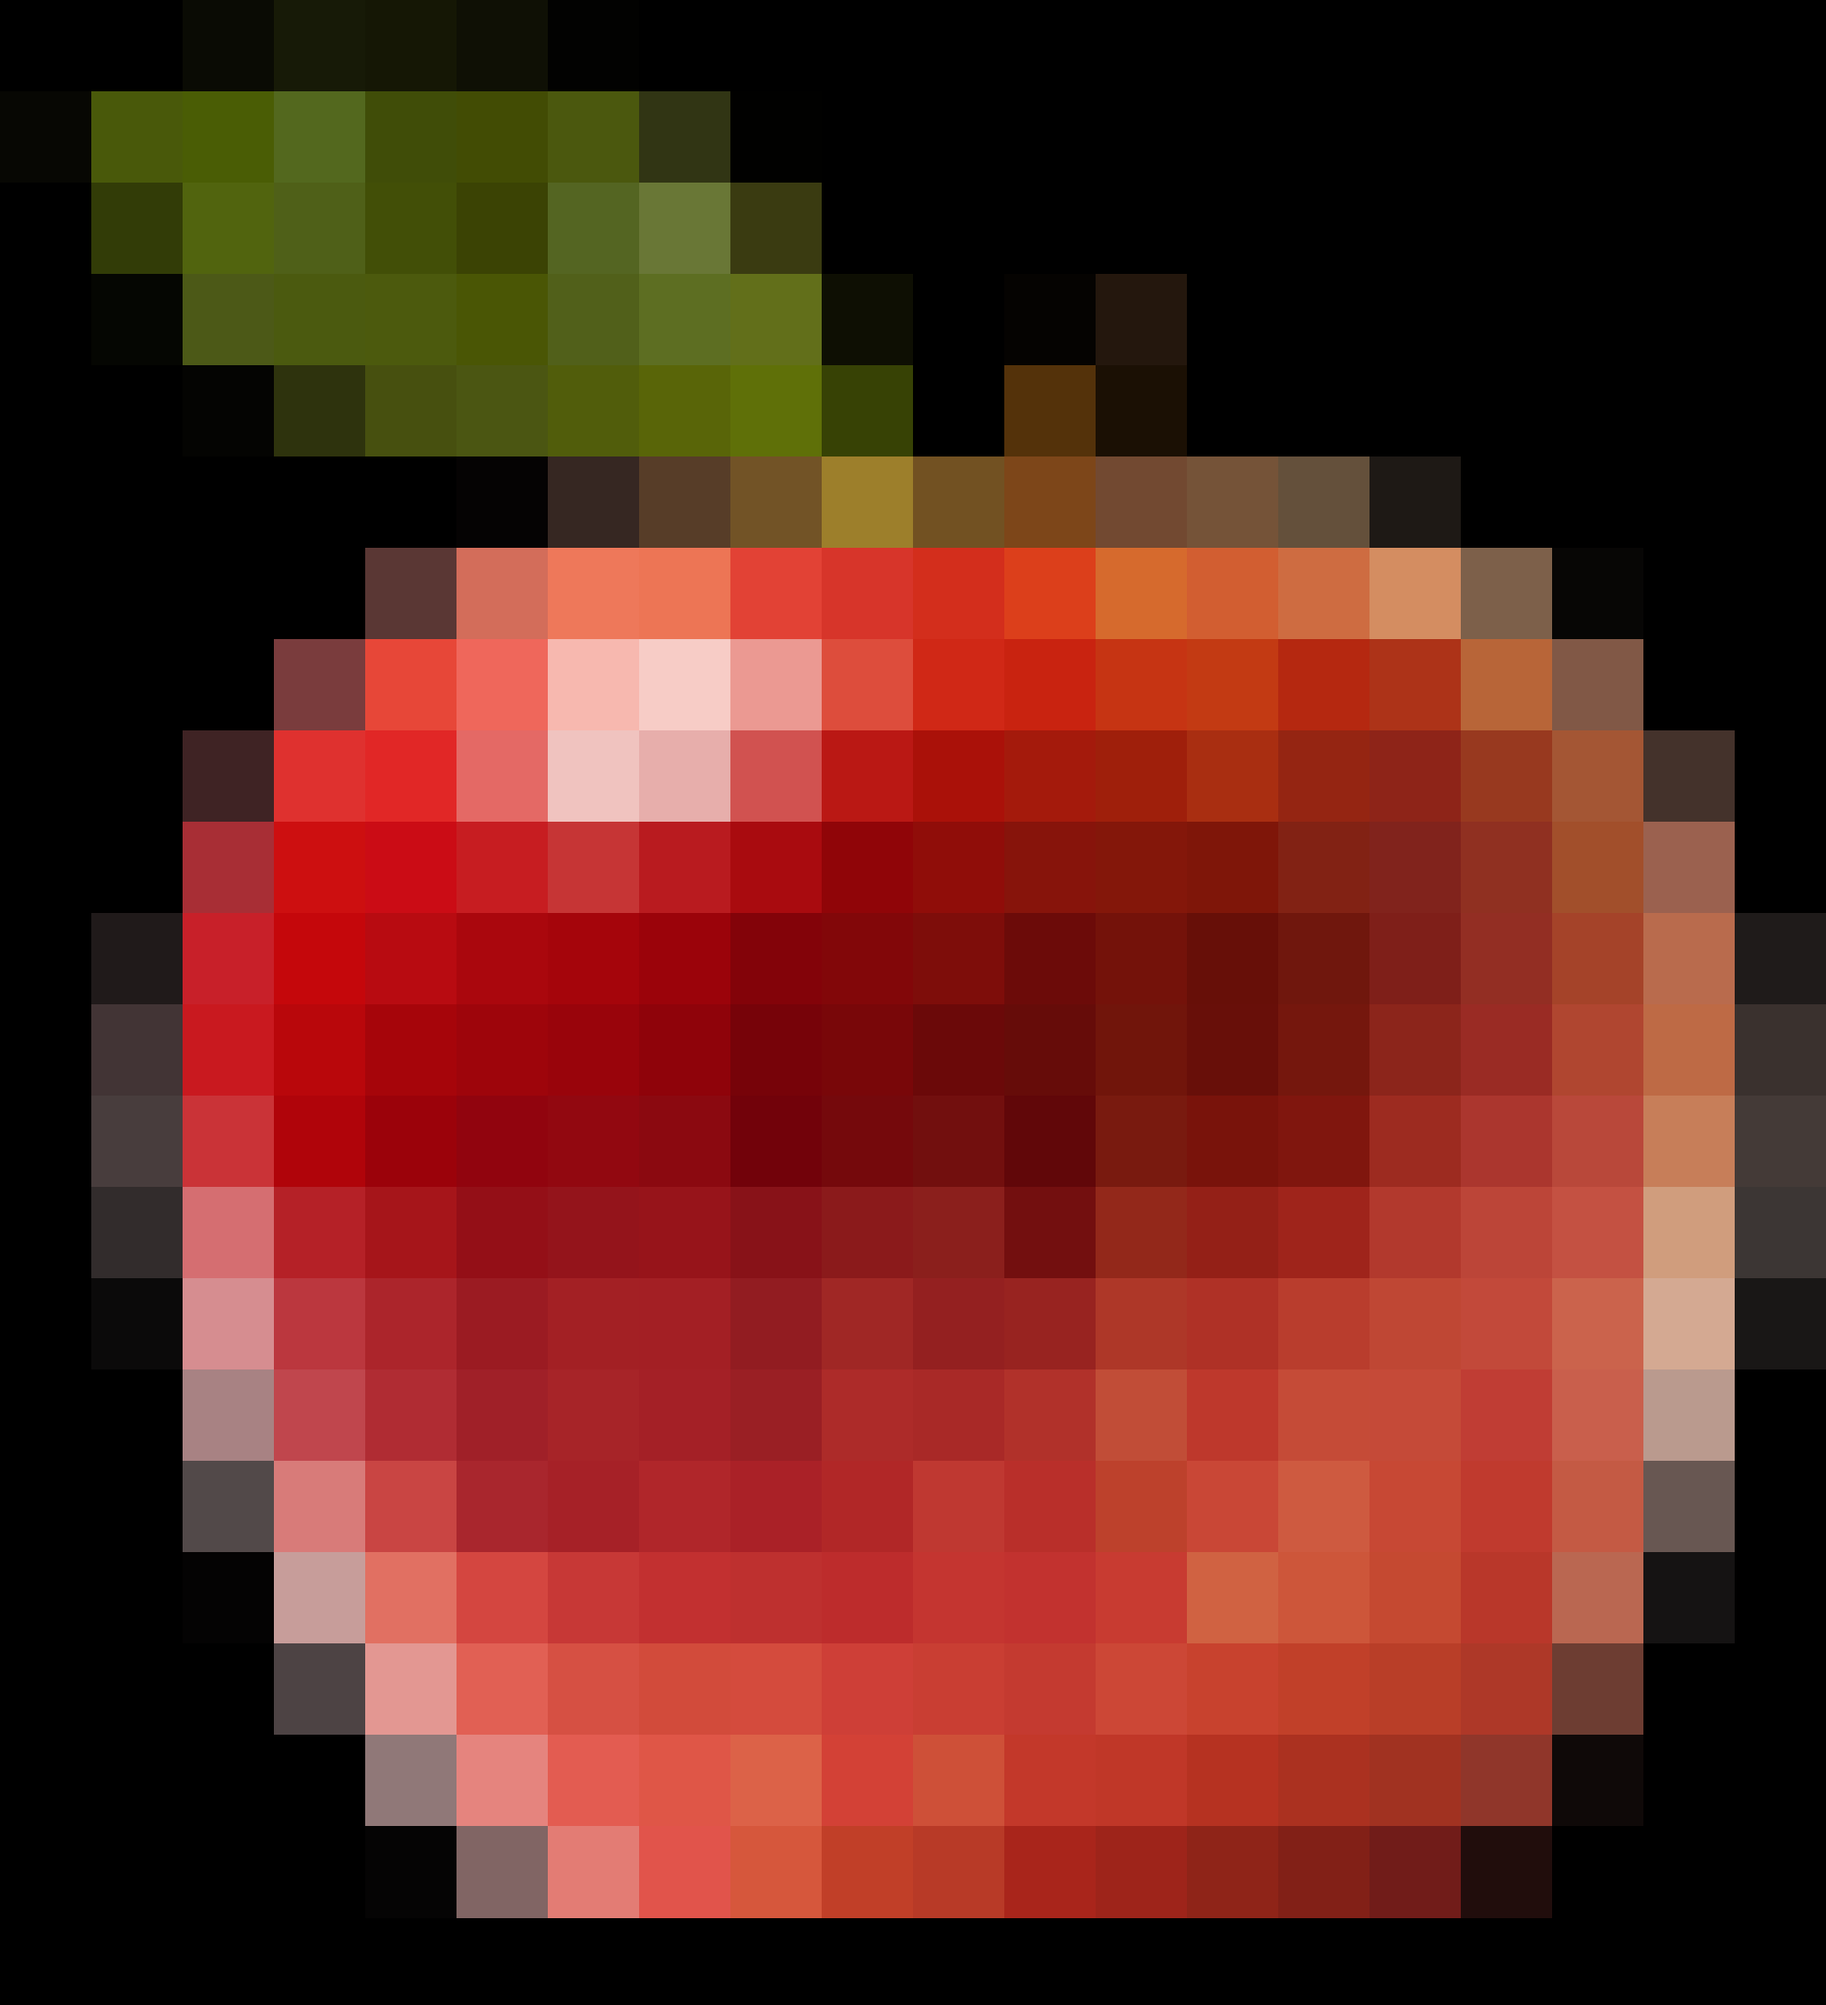
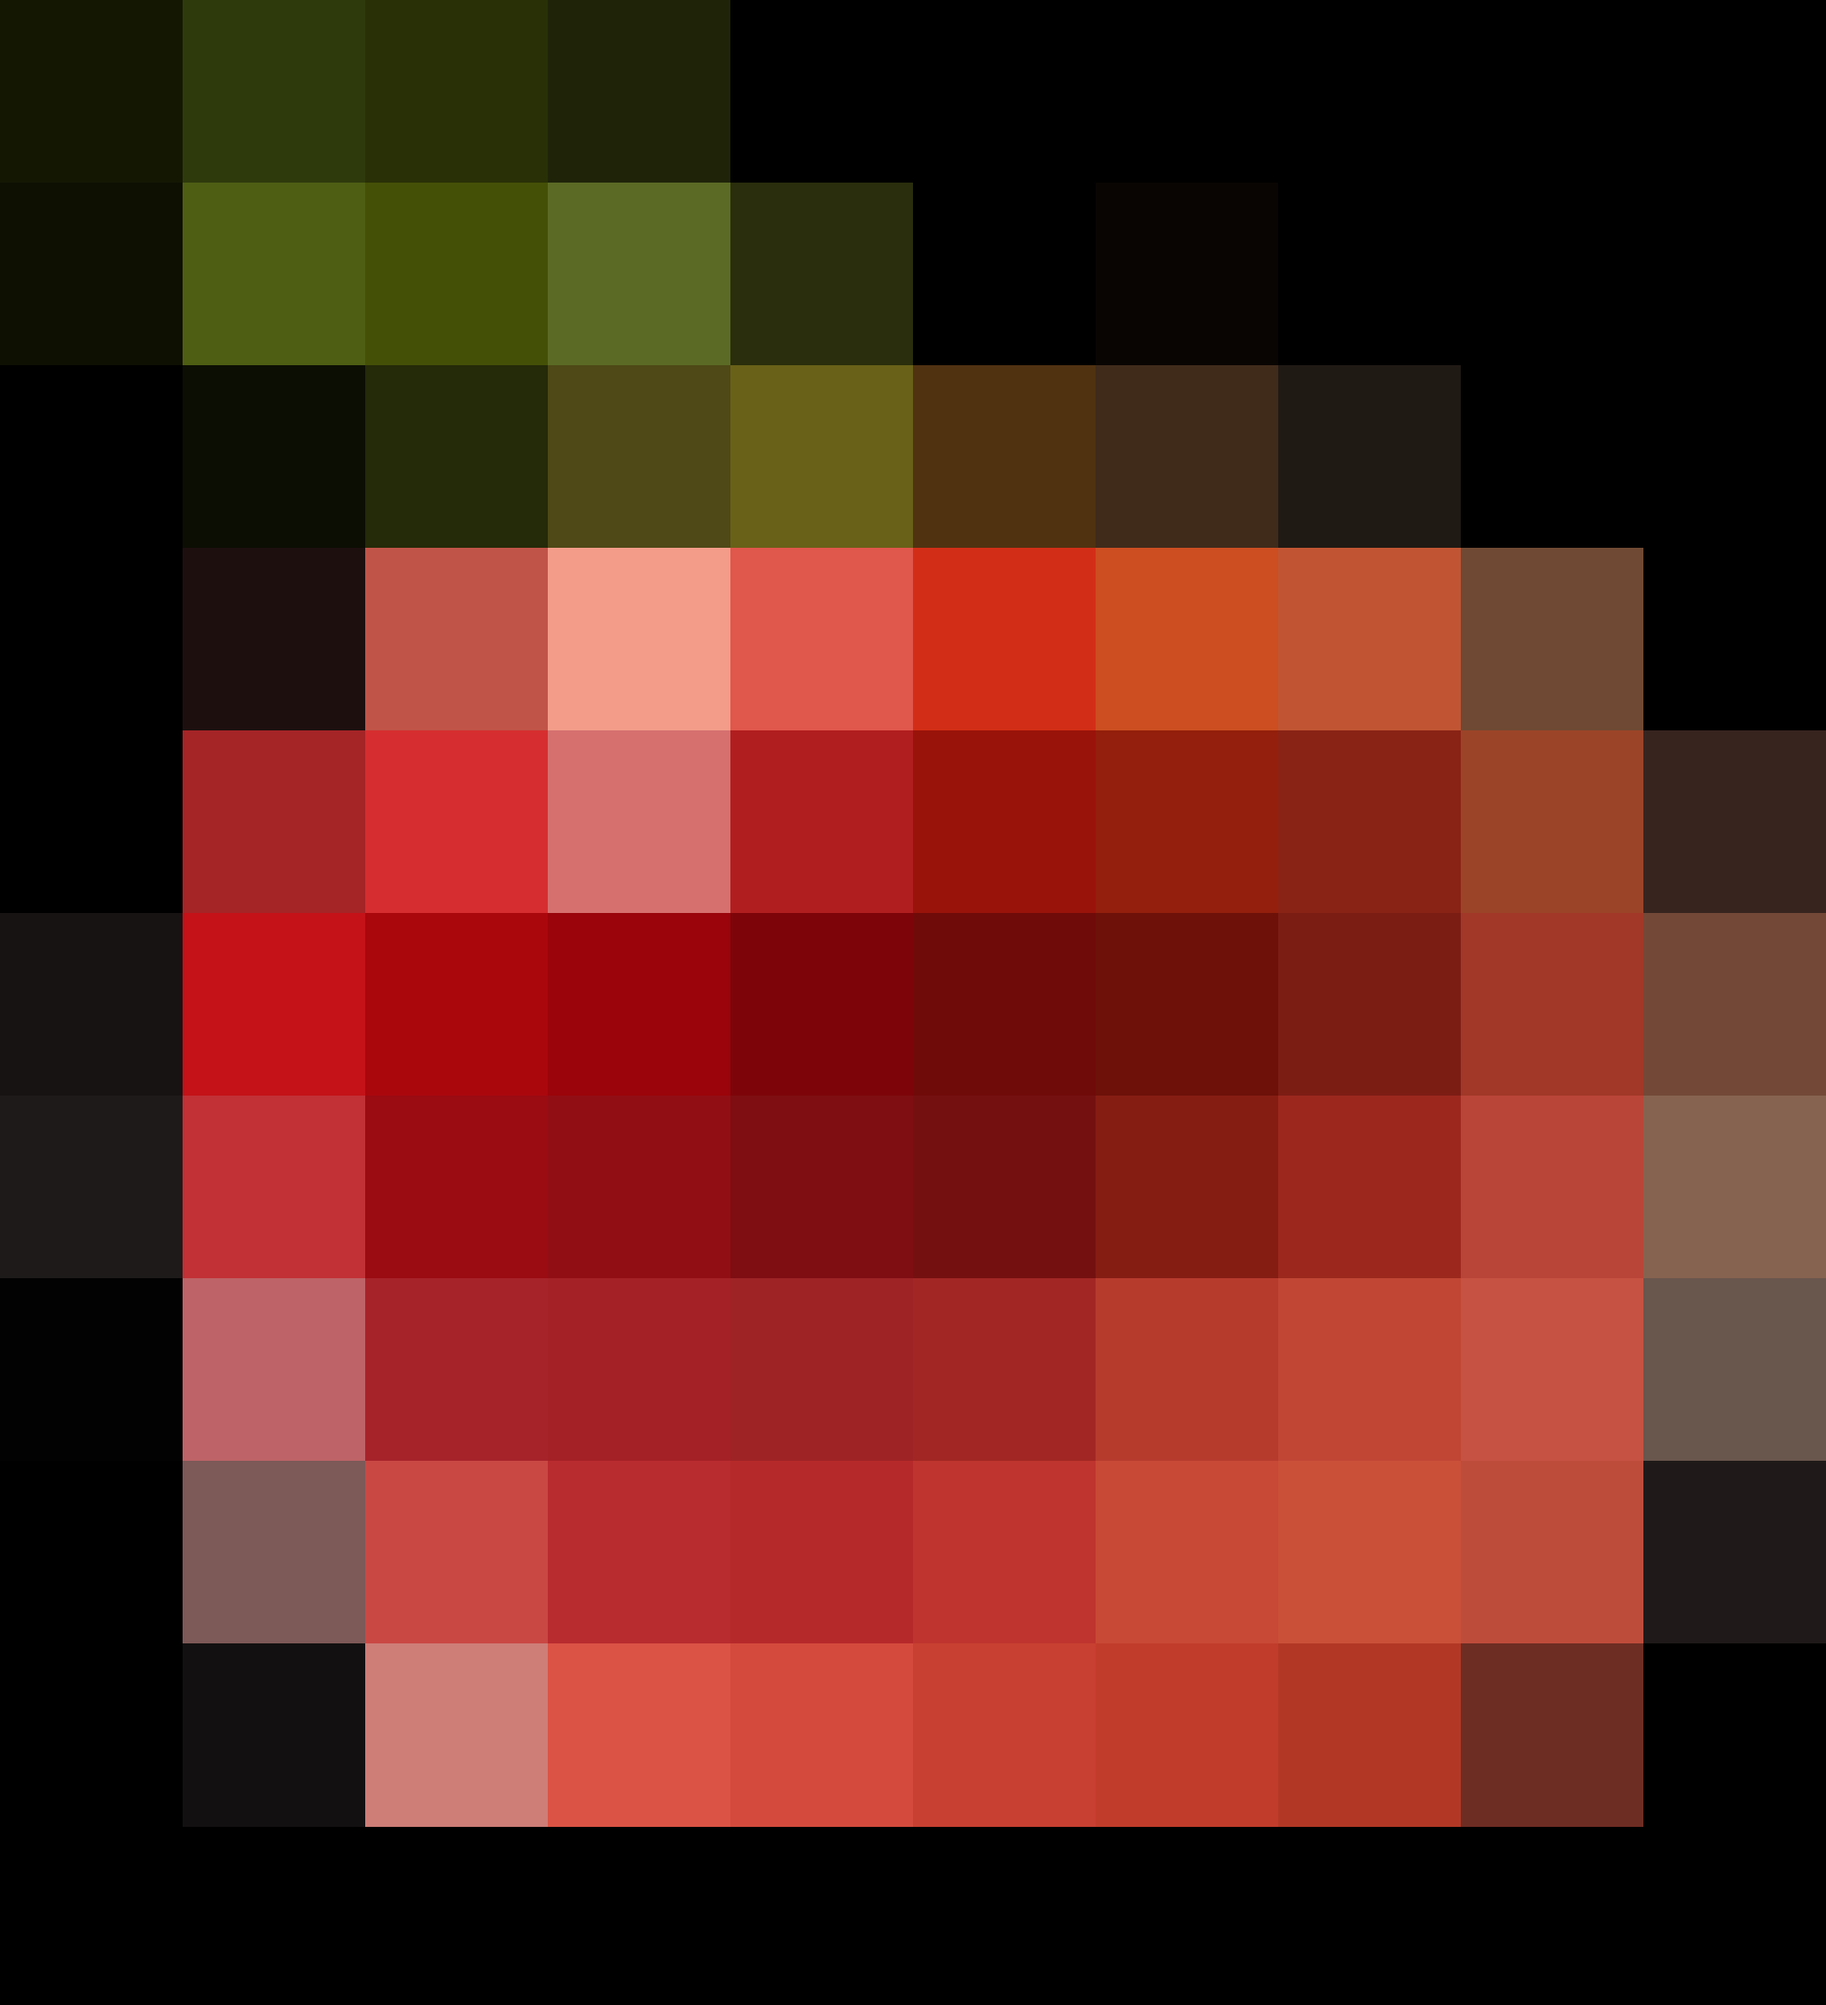
display win game text at the end

diff --git a/src/guessing_game.py b/src/guessing_game.py
@@ -104,7 +104,7 @@ def rescale_image(path):
 
     #center image to screen
     x = (screen_w - img_w)//2
-    y = (screen_h - img_h)//4
+    y = (screen_h - img_h)//2
 
     return img, img_w, img_h, x, y
 
@@ -211,12 +211,24 @@ def main():
 
                             if idx >= len(image_paths): #if there are more images to go through
                                 #call rain.py confetti burst, but for now...
-                                print ("Congradulations! You beat the Game!")
-                                running = False
+                                # Render "End Game" on screen
+                                end_font = pygame.font.SysFont(None, 120)
+                                end_text = end_font.render("CONGRADULATIONS YOU WIN!", True, (255, 255, 255))
+
+                                # Center the text
+                                text_rect = end_text.get_rect(center=(screen.get_width() // 2, screen.get_height() // 2))
+
+                                # Draw final screen
+                                screen.fill((0, 0, 0))
+                                screen.blit(end_text, text_rect)
+                                pygame.display.flip()
+
+                                # Pause so player can see it
+                                pygame.time.delay(3000)
                                 break
                             current_image, img_w, img_h, x, y = rescale_image(image_paths[idx])
                             filename = os.path.basename(image_paths[idx]).split(".")[0]
-                            correct_answer = os.path.basename(image_paths[idx]).split(".")[0]
+                            correct_answer = filename.replace("_pixelated", "")
                             result, answer_choices = correct_incorrect_guess("", correct_answer)
 
                         elif result == "Wrong! The correct answer was: " + correct_answer:

diff --git a/src/pixelation.py b/src/pixelation.py
@@ -84,10 +84,11 @@ class Art():
 #Function to open file dialog and select an image from choosen_image directory
 #returns the file path of the selected image
 def open_file_dialog():
-    for image in os.listdir("chosen_images"): #do this for every image in directory
-        if image.endswith((".png", ".jpg", ".jpeg")):
-            image_path = os.path.join("chosen_images", image)
-            return image_path
+    images = []
+    for image in os.listdir("chosen_images"):
+        if image.lower().endswith((".png", ".jpg", ".jpeg")):
+            images.append(os.path.join("chosen_images", image))
+    return images
 
 #function to process the image into a grid and avg the colors in each step
 def process_image(image_path, grid_size, folder_path = "chosen_images"):
@@ -178,19 +179,17 @@ def main():
     screen = pygame.display.set_mode(resolution)
 
     
-    folder = "chosen_images"
-    images = [f for f in os.listdir(folder) if f.lower().endswith((".png", ".jpg", ".jpeg"))]
+    image_paths = open_file_dialog()
 
-    if not images:
+    if not image_paths:
         print("No images found in chosen_images/")
         return
 
-    print(f"Found {len(images)} images. Pixelating all...")
+    print(f"Found {len(image_paths)} images. Pixelating all...")
 
-    for img in images:
-        image_path = os.path.join(folder, img)
-        print(f"Processing: {img}")
-    dots, img_res = process_image(image_path, grid_size=20)
+    for image_path in image_paths:
+        print(f"Processing: {os.path.basename(image_path)}")
+        dots, img_res = process_image(image_path, grid_size=10)
 
     art = Art()
     art.dots = dots
